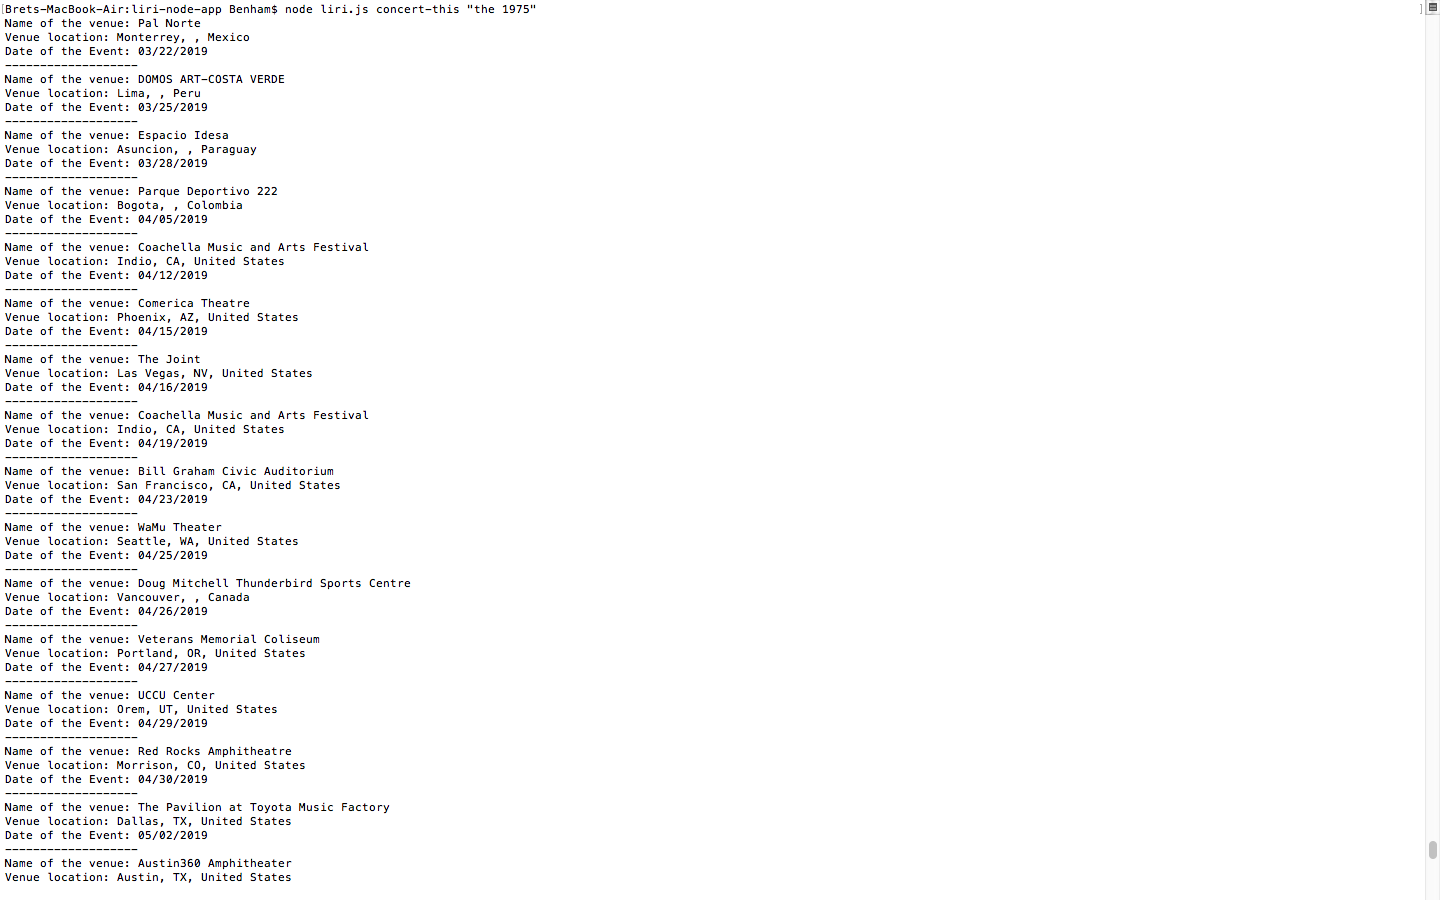
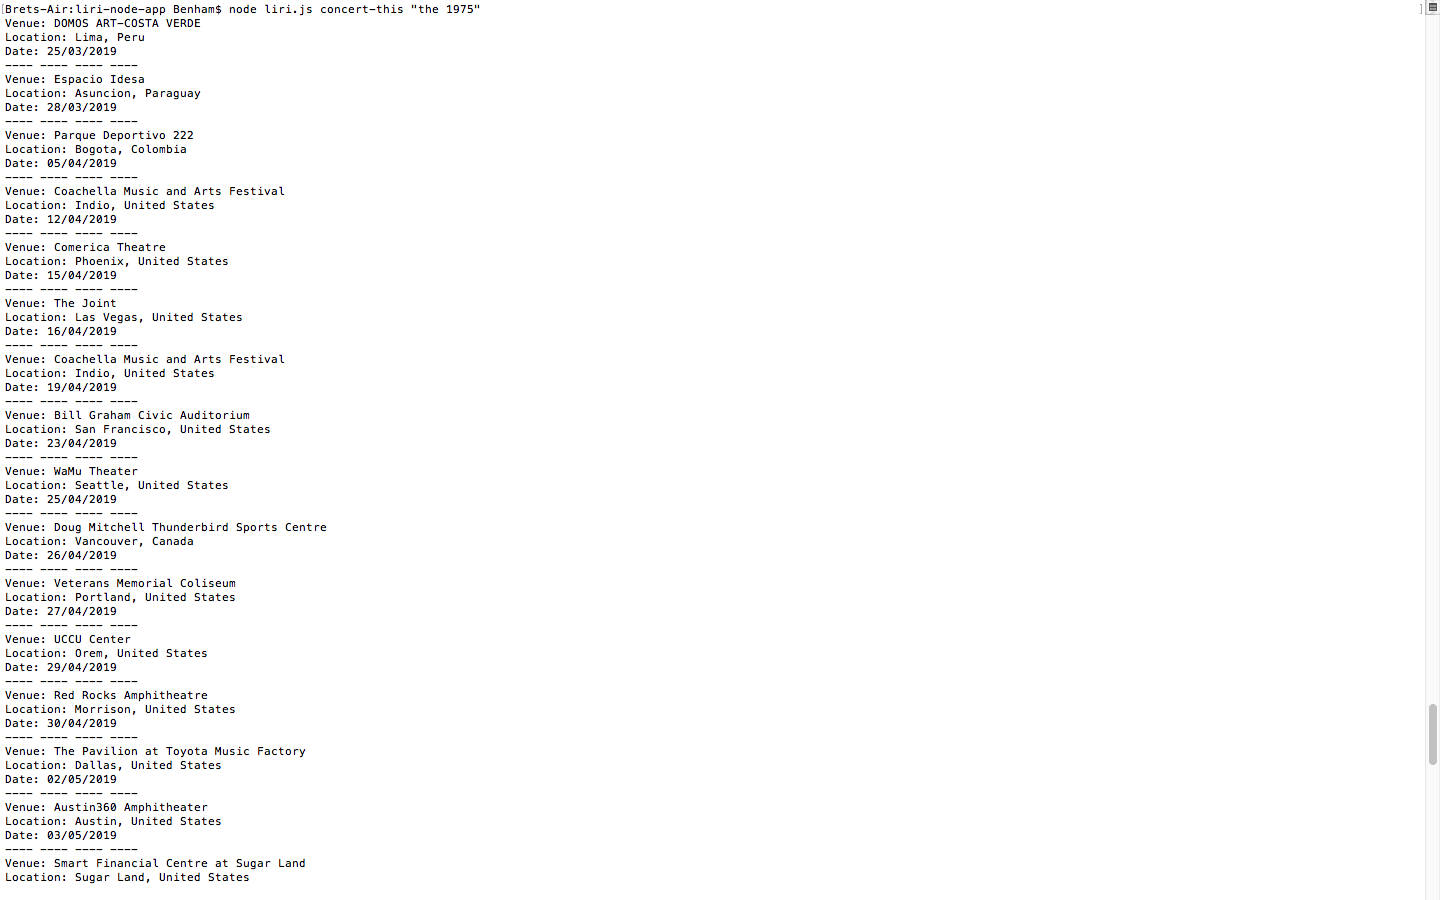
updates

diff --git a/liri.js b/liri.js
@@ -38,11 +38,10 @@ function concertThis() {
     axios.get(queryURL).then(
         function (response) {
             for (var i = 0; i < response.data.length; i++) {
-                var theLocation = response.data[i].venue.city + ", " + response.data[i].venue.region + ", " + response.data[i].venue.country
-                console.log("Name of the venue: " + response.data[i].venue.name);
-                console.log("Venue location: " + theLocation);
-                console.log("Date of the Event: " + moment(response.data[i].datetime).format("MM/DD/YYYY"));
-                console.log("-------------------");
+                console.log("Venue: " + response.data[i].venue.name);
+                console.log("Location: " + response.data[i].venue.city + ", " + response.data[i].venue.country);
+                console.log("Date: " + moment(response.data[i].datetime).format("DD/MM/YYYY"));
+                console.log("---- ---- ---- ----");
 
                 
 
